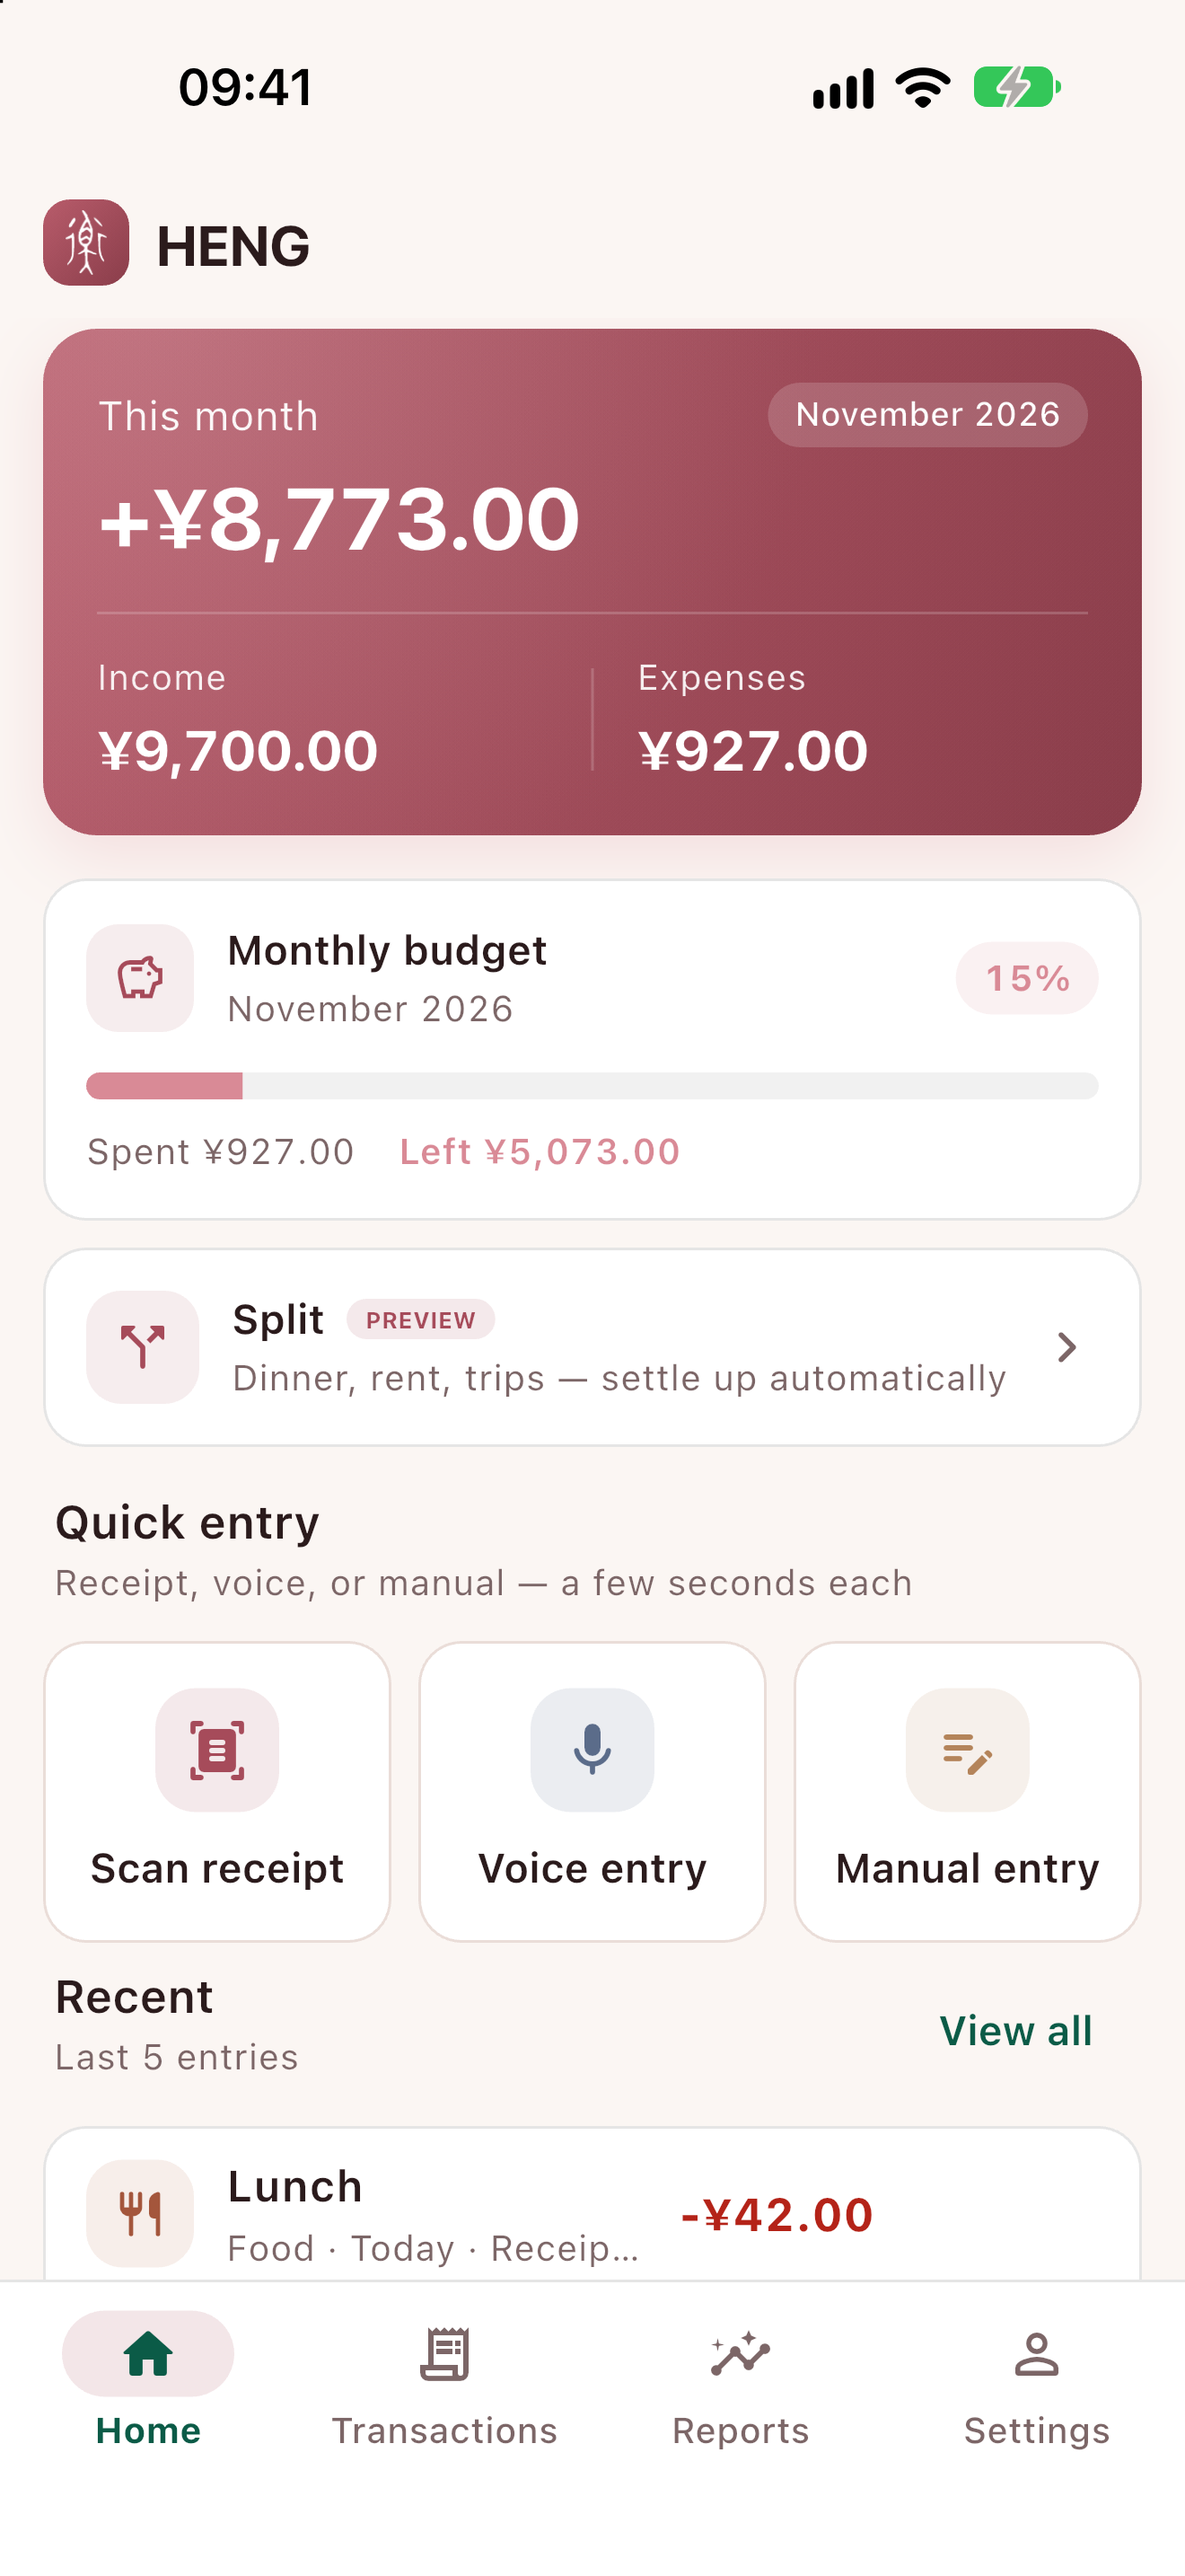
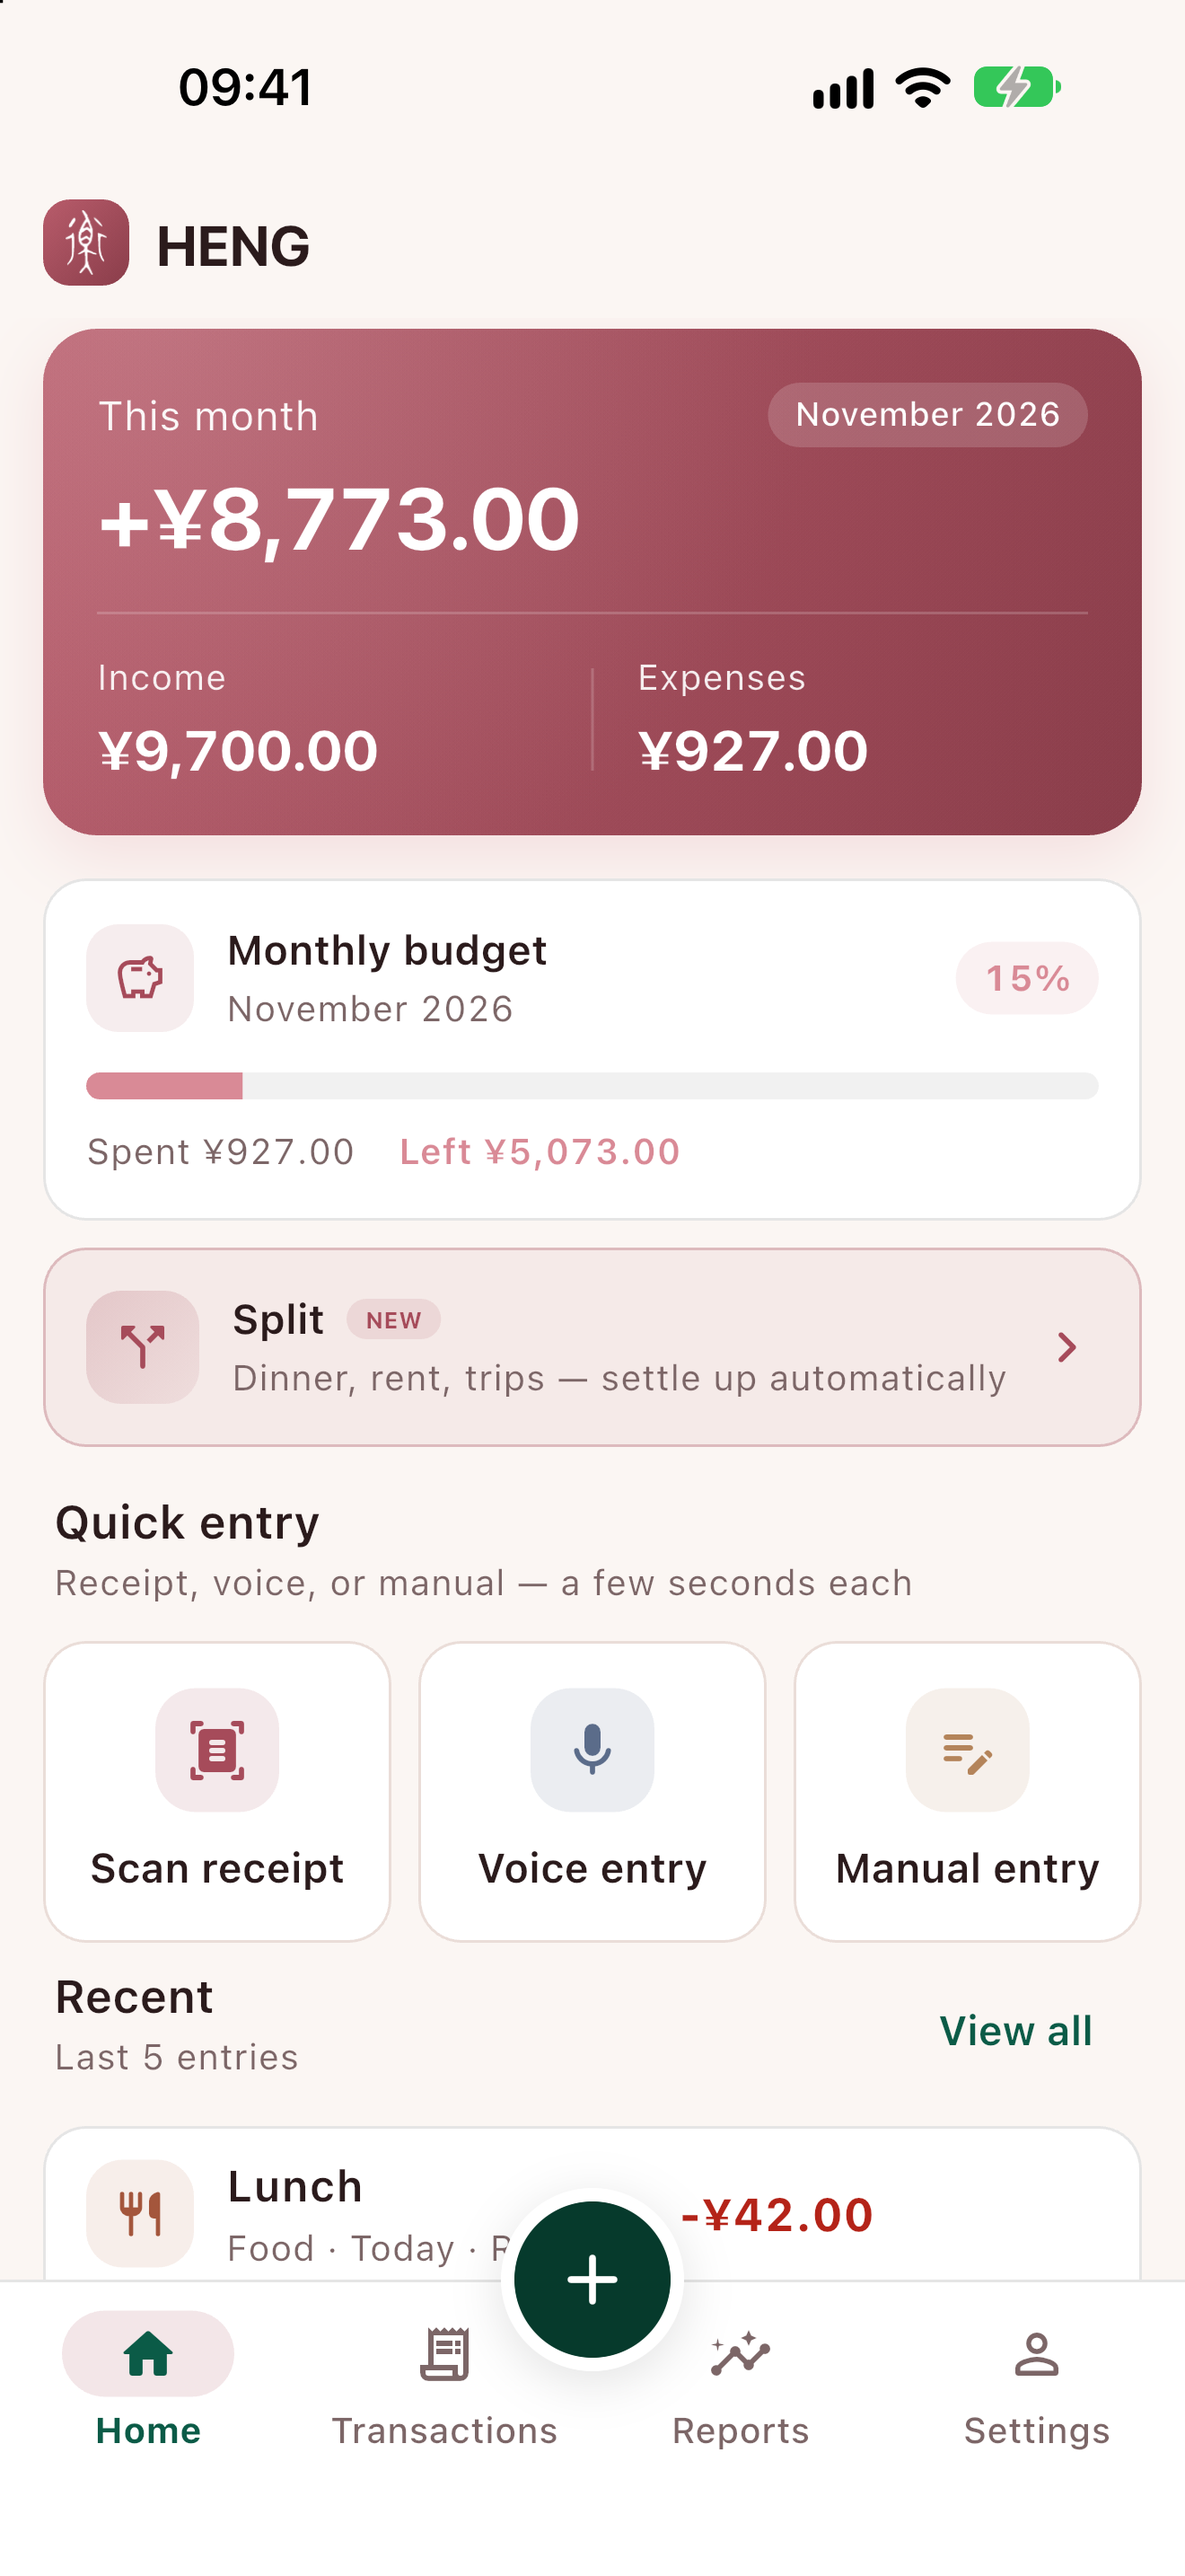
fix(split): 恢复底部 + 并高亮首页 Split 入口
- 移除 5-tab 实验，详情页全屏 push，不再占底部 Tab
- 首页 Split 卡片加 tinted background / NEW badge / primary chevron
- 预览恢复中央 FAB；生产 FAB 始终存在
- 更新 split 流程展示板

Changed region(s): [[0.4348, 0.8379, 0.5902, 0.931], [0.0621, 0.4965, 0.1864, 0.5586], [0.3106, 0.4965, 0.3727, 0.5275]]

diff --git a/lib/ui/screens/home_screen.dart b/lib/ui/screens/home_screen.dart
@@ -90,13 +90,22 @@ class HomeScreen extends StatelessWidget {
             const SizedBox(height: 10),
             AppCard(
               onTap: onOpenSplit,
+              color: theme.colorScheme.primary.withValues(alpha: 0.07),
+              borderColor: theme.colorScheme.primary.withValues(alpha: 0.30),
               child: Row(
                 children: [
                   Container(
                     width: 42,
                     height: 42,
                     decoration: BoxDecoration(
-                      color: theme.colorScheme.primary.withValues(alpha: 0.10),
+                      gradient: LinearGradient(
+                        begin: Alignment.topLeft,
+                        end: Alignment.bottomRight,
+                        colors: [
+                          theme.colorScheme.primary.withValues(alpha: 0.22),
+                          theme.colorScheme.primary.withValues(alpha: 0.08),
+                        ],
+                      ),
                       borderRadius: BorderRadius.circular(13),
                     ),
                     child: Icon(Icons.call_split_rounded,
@@ -123,7 +132,7 @@ class HomeScreen extends StatelessWidget {
                                 borderRadius: BorderRadius.circular(999),
                               ),
                               child: Text(
-                                'PREVIEW',
+                                l10n.splitBadge,
                                 style: theme.textTheme.labelSmall?.copyWith(
                                   color: theme.colorScheme.primary,
                                   fontWeight: FontWeight.w700,
@@ -147,7 +156,7 @@ class HomeScreen extends StatelessWidget {
                   ),
                   const SizedBox(width: 8),
                   Icon(Icons.chevron_right_rounded,
-                      color: theme.colorScheme.onSurfaceVariant),
+                      color: theme.colorScheme.primary),
                 ],
               ),
             ),

diff --git a/lib/l10n/app_localizations_zh.dart b/lib/l10n/app_localizations_zh.dart
@@ -1316,6 +1316,9 @@ class AppLocalizationsZh extends AppLocalizations {
 
   @override
   String get splitModeSubtitle => '聚餐、房租、旅行，自动算清谁欠谁';
+
+  @override
+  String get splitBadge => '新';
 }
 
 /// The translations for Chinese, using the Han script (`zh_Hant`).
@@ -2630,4 +2633,7 @@ class AppLocalizationsZhHant extends AppLocalizationsZh {
 
   @override
   String get splitModeSubtitle => '聚餐、房租、旅行，自動算清誰欠誰';
+
+  @override
+  String get splitBadge => '新';
 }

diff --git a/lib/l10n/app_localizations.dart b/lib/l10n/app_localizations.dart
@@ -2425,6 +2425,12 @@ abstract class AppLocalizations {
   /// In zh, this message translates to:
   /// **'聚餐、房租、旅行，自动算清谁欠谁'**
   String get splitModeSubtitle;
+
+  /// No description provided for @splitBadge.
+  ///
+  /// In zh, this message translates to:
+  /// **'新'**
+  String get splitBadge;
 }
 
 class _AppLocalizationsDelegate

diff --git a/lib/app.dart b/lib/app.dart
@@ -111,7 +111,7 @@ class LedgerApp extends StatelessWidget {
       case 'trip':
         return const SplitDemoScreen();
       case 'home_split':
-        return const RootShell(splitPreview: true, showFab: false);
+        return const RootShell(splitPreview: true);
       case 'add':
         return const AddTransactionScreen();
       case 'add_receipt':

diff --git a/lib/l10n/app_localizations_ru.dart b/lib/l10n/app_localizations_ru.dart
@@ -1367,4 +1367,7 @@ class AppLocalizationsRu extends AppLocalizations {
 
   @override
   String get splitModeSubtitle => 'Ужин, аренда, поездки — расчёты за вас';
+
+  @override
+  String get splitBadge => 'НОВОЕ';
 }

diff --git a/lib/l10n/app_localizations_en.dart b/lib/l10n/app_localizations_en.dart
@@ -1365,4 +1365,7 @@ class AppLocalizationsEn extends AppLocalizations {
   @override
   String get splitModeSubtitle =>
       'Dinner, rent, trips — settle up automatically';
+
+  @override
+  String get splitBadge => 'NEW';
 }

diff --git a/docs/PROJECT_STATE.md b/docs/PROJECT_STATE.md
@@ -264,7 +264,8 @@
 - 无障碍：`showcase/accessibility_audit.png` + `docs/ACCESSIBILITY_AUDIT.md`
 - 主题研究：`docs/THEME_STRATEGY.md`（女性向 D/E/F；建议上架 3 套：D 免费 + E/F Pro；A/B/C 可作 Classic）
 - 旅行分账概念页：`lib/ui/screens/trip_demo_screen.dart` + `DEMO_SCREEN=trip`（1.2 才接数据/CloudKit）。
-- 入口已修正：首页 **Split 卡片**，不是底部 Tab；详情页全屏 push、返回记账。
+- 入口已修正并高亮：首页 Split 卡片（tinted + NEW 徽标 + primary chevron），不是底部 Tab；详情页全屏 push、返回记账。
+- 预览截图恢复底部中央「+」FAB；之前 5-tab 方案下临时隐藏，已废弃。
 - 展示图 `showcase/travel_split.png`；正式用户暂不可见，1.2 接真实数据后开启。
 - 真实分账/CloudKit/FX/StoreKit 方案：`docs/SPLIT_ARCHITECTURE.md`，尚未实现。
 - TestFlight 1.1.0 (14) 已挂组；1.0 仍 WAITING_FOR_REVIEW。
